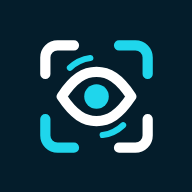
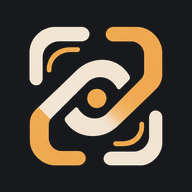
Add files via upload
v0.59

diff --git a/js/main.js b/js/main.js
@@ -23,7 +23,7 @@ import { summarizeCrew, rangeDisagreements, aboveOwnAfterFlight, compact } from 
 import { eyeAspect, EyeTracker } from './eyes.js';
 import { makeSpeaker } from './speech.js';
 import { parseBackup, mergePlan } from './backup.js';
-import { makeDemoSessions, makeDemoExp, DEMO_PROFILE, DEMO_NAME } from './demo.js';
+import { makeDemoSessions, makeDemoExp, SCENARIOS, DEMO_PROFILE, DEMO_NAME } from './demo.js';
 import { validatePacket, safeImage, standouts } from './review.js';
 import { analyzeMouth, compareMouth, changeMap, mouthMask } from './dentalcmp.js';
 import { REPLY_STATUSES, makeReply, validateReply, gzipText, readMaybeGzip } from './reply.js';
@@ -33,7 +33,7 @@ import { REEL, reelTotal, sceneAt, reelSrt, pickRecordingType } from './reel.js'
 import { earthMars, marsCycle, moonOneWaySec, fmtDelay } from './delay.js';
 import { initExp } from './expui.js';
 import { expForPacket, checkTitle, CHECKS as EXP_CHECKS } from './exp.js';
-import { METRIC_DEFS, seriesFor, referenceFor, buildRegions, lineChart, BODY_SVG } from './overview.js';
+import { METRIC_DEFS, seriesFor, referenceFor, buildRegions, lineChart, BODY_SVG, missionDay } from './overview.js';
 import { N as AMS_N, CARD_MM, DEFAULT_PX_PER_MM, summarize as amsSummary, compareEye, gridSize, cleanCells, visionForPacket } from './amsler.js';
 
 const $ = (id) => document.getElementById(id);
@@ -1376,7 +1376,9 @@ function applyTheme(dark) {
   $('btnTheme').setAttribute('aria-pressed', dark ? 'true' : 'false');
   $('btnTheme').textContent = dark ? 'Light' : 'Dark';
   document.querySelector('meta[name=theme-color]').setAttribute('content', dark ? '#101113' : '#041D2B');
-  // The logo is inline SVG coloured from the theme (css/app.css, .logo-mark), so nothing to swap here.
+  // Blue logo in light mode, amber logo in dark mode.
+  document.querySelector('.brand img').src = dark ? 'icons/logo-64.png' : 'icons/logo-blue-bar-64.png';
+  document.querySelector('.hero-logo').src = dark ? 'icons/logo-128.png' : 'icons/logo-blue-128.png';
 }
 const savedTheme = prefs.get('theme');
 applyTheme(savedTheme ? savedTheme === 'dark' : !!(darkQuery && darkQuery.matches));
@@ -1581,16 +1583,18 @@ setProfile(profiles().some((p) => p.id === prefs.get('profile')) ? prefs.get('pr
 renderProfileBar();
 
 /* ---------- sample data ---------- */
-$('btnDemo').addEventListener('click', async () => {
+// Fill the sample profile with one scenario. Rebuilt every time so the dates stay recent.
+async function loadDemo(scenario = prefs.get('demoScenario') || 'shortsleep') {
   if (!profiles().some((p) => p.id === DEMO_PROFILE)) prefs.set('profiles', [...profiles(), { id: DEMO_PROFILE, name: DEMO_NAME }]);
   setProfile(DEMO_PROFILE);
-  // Rebuild so the dates stay recent.
   await clearAll();
-  for (const x of [...makeDemoSessions(new Date()), ...makeDemoExp(new Date())]) await saveSession(x);
+  const now = new Date();
+  for (const x of [...makeDemoSessions(now, 42, scenario), ...makeDemoExp(now, scenario)]) await saveSession(x);
   prefs.set('profile', DEMO_PROFILE);
+  prefs.set('demoScenario', scenario);
   renderProfileBar();
-  show('board');
-});
+}
+$('btnDemo').addEventListener('click', async () => { await loadDemo(); show('board'); });
 
 /* ---------- trends ---------- */
 function trendHtml(sessions) {
@@ -2083,11 +2087,7 @@ async function reelLoadSample() {
   reel.prevProfile = getProfile();
   reel.prevMission = prefs.get('radMission');
   if (!profiles().some((p) => p.id === DEMO_PROFILE)) prefs.set('profiles', [...profiles(), { id: DEMO_PROFILE, name: DEMO_NAME }]);
-  setProfile(DEMO_PROFILE);
-  await clearAll();
-  for (const x of [...makeDemoSessions(new Date()), ...makeDemoExp(new Date())]) await saveSession(x);
-  prefs.set('profile', DEMO_PROFILE);
-  renderProfileBar();
+  await loadDemo('shortsleep');
 }
 // countdown: seconds of "start your recorder" before the first scene (0 when the app records by itself).
 async function reelStart({ countdown = 3, onBegin = null } = {}) {
@@ -2416,6 +2416,17 @@ async function renderOverview() {
     ovState.metric = null;
   }
   drawOvBody();
+  // Mission clock and scenario picker
+  const mc = prefs.get('missionClock');
+  const md = mc ? missionDay(mc.start, mc.length) : null;
+  $('ovMission').innerHTML = !md ? '<p class="fine">No mission clock set.</p>'
+    : md.phase === 'before' ? `<p>Mission starts in ${md.daysToGo} day${md.daysToGo === 1 ? '' : 's'} (${md.length} days long)</p>`
+      : md.phase === 'after' ? `<p>Mission ended ${md.daysSince} day${md.daysSince === 1 ? '' : 's'} ago (${md.length} days)</p>`
+        : `<p>Mission day ${md.day} of ${md.length}</p><div class="meter" role="img" aria-label="${Math.round(md.pct * 100)} percent of the mission done"><div style="transform:scaleX(${md.pct.toFixed(3)})"></div></div>`;
+  if (mc) { $('ovStart').value = mc.start; $('ovLen').value = mc.length; }
+  const cur = getProfile() === DEMO_PROFILE ? prefs.get('demoScenario') || 'shortsleep' : 'shortsleep';
+  $('ovScenario').innerHTML = SCENARIOS.map((x) => `<option value="${x.id}" ${x.id === cur ? 'selected' : ''}>${esc(x.label)}</option>`).join('');
+  $('ovScenario').title = (SCENARIOS.find((x) => x.id === cur) || SCENARIOS[0]).line;
   // Headline numbers
   const kpi = (k, v, unit, sub, warn) => `<div class="ov-kpi"><p class="k">${k}</p><p class="v">${v ?? '-'}${v != null && unit ? ` <small>${unit}</small>` : ''}</p><p class="s${warn ? ' warn' : ''}">${sub}</p></div>`;
   const ch = (val, base, floor) => (val == null ? null : changeVsBaseline(val, base, floor));
@@ -2482,7 +2493,8 @@ function drawOvChart() {
   }
   $('ovMetric').hidden = false;
   const withData = r.metrics.filter((m) => seriesFor(m, all).length);
-  if (!ovState.metric || !r.metrics.includes(ovState.metric)) ovState.metric = withData[0] || r.metrics[0];
+  const flaggedM = withData.find((m) => { const p = seriesFor(m, all), rf = referenceFor(m, p, { original, floors }); const v = p.at(-1).v; return rf && rf.band != null && (p.length > 1 || ['pulse', 'resp', 'gum'].includes(m)) && Math.abs(v - rf.base) > rf.band; });
+  if (!ovState.metric || !r.metrics.includes(ovState.metric)) ovState.metric = flaggedM || withData[0] || r.metrics[0];
   $('ovMetric').innerHTML = r.metrics.map((m) => `<option value="${m}" ${m === ovState.metric ? 'selected' : ''}>${esc(METRIC_DEFS[m].label)}${withData.includes(m) ? '' : ' (no data)'}</option>`).join('');
   const def = METRIC_DEFS[ovState.metric];
   const pts = seriesFor(ovState.metric, all);
@@ -2507,3 +2519,19 @@ $('screen-overview').addEventListener('click', (e) => {
   $('ovBody').querySelector(`[data-ov-region="${ovState.region}"]`)?.focus();
 });
 $('ovMetric').addEventListener('change', (e) => { ovState.metric = e.target.value; drawOvChart(); });
+
+$('btnOvScenario').addEventListener('click', async () => {
+  const id = $('ovScenario').value;
+  await loadDemo(id);
+  ovState.region = null; ovState.metric = null;
+  await renderOverview();
+  $('restoreMsg').textContent = `Sample scenario loaded: ${(SCENARIOS.find((x) => x.id === id) || {}).label}. ${(SCENARIOS.find((x) => x.id === id) || {}).line}`;
+});
+$('btnOvClock').addEventListener('click', () => {
+  const start = $('ovStart').value, length = Number($('ovLen').value);
+  if (!start || !missionDay(start, length)) { $('ovLen').focus(); return; }
+  prefs.set('missionClock', { start, length });
+  renderOverview();
+});
+$('btnOvClockClear').addEventListener('click', () => { prefs.set('missionClock', null); $('ovStart').value = ''; $('ovLen').value = ''; renderOverview(); });
+$('btnOvPrint').addEventListener('click', () => window.print());

diff --git a/js/demo.js b/js/demo.js
@@ -11,7 +11,15 @@ function rng(seed) {
   return () => { x = (x * 1664525 + 1013904223) >>> 0; return x / 2 ** 32; };
 }
 
-export function makeDemoSessions(now = new Date(), seed = 42) {
+// Scenarios for "Explore a scenario": the same two invented weeks, told four ways.
+export const SCENARIOS = [
+  { id: 'shortsleep', label: 'Three short nights', line: 'Pulse rises and reactions slow after a run of short sleep.' },
+  { id: 'steady', label: 'A steady fortnight', line: 'Everything stays inside its band. What a calm record looks like.' },
+  { id: 'gums', label: 'Gums getting redder', line: 'The front dental photo drifts redder over the last checkups, with gum pain ticked.' },
+  { id: 'breath', label: 'Short of breath today', line: 'Today\'s checkup has shortness of breath ticked and a faster breathing rate: the urgent path.' },
+];
+
+export function makeDemoSessions(now = new Date(), seed = 42, scenario = 'shortsleep') {
   const r = rng(seed);
   const day = 24 * 3600 * 1000;
   const out = [];
@@ -24,9 +32,10 @@ export function makeDemoSessions(now = new Date(), seed = 42) {
   // 12 checkups over 14 days; pulse rises on days 3 to 1 ago (a short sleep stretch in the story).
   const plan = [14, 13, 12, 11, 9, 8, 7, 6, 5, 3, 2, 1];
   plan.forEach((ago, i) => {
-    const elevated = ago <= 3;
-    const pulse = Math.round(63 + (r() - 0.5) * 5 + (elevated ? 9 : 0));
-    const resp = Math.round(14 + (r() - 0.5) * 3);
+    const elevated = scenario === 'shortsleep' && ago <= 3;
+    const breathless = scenario === 'breath' && ago === 1;
+    const pulse = Math.round(63 + (r() - 0.5) * 5 + (elevated ? 9 : 0) + (breathless ? 11 : 0));
+    const resp = Math.round(14 + (r() - 0.5) * 3 + (breathless ? 7 : 0));
     const quality = r() < 0.15 ? 'medium' : 'high';
     const s = {
       id: id(i), demo: true, profileId: DEMO_PROFILE, createdAt: at(ago, Math.round((r() - 0.5) * 70)).toISOString(),
@@ -35,16 +44,26 @@ export function makeDemoSessions(now = new Date(), seed = 42) {
       pulse: { bpm: pulse, quality, accepted: 11, total: 11, reason: '' },
       resp: { rpm: resp, quality: 'high', seconds: 30, channel: i % 3 ? 'chest' : 'neck', reason: '' },
       usableSeconds: 30, elapsedSeconds: 38 + Math.round(r() * 20), dental: {},
-      context: { symptoms: elevated && ago === 2 ? 'Slept badly two nights, mild headache.' : '',
-        checklist: ago === 3 ? ['sleep'] : ago === 2 ? ['headache', 'sleep'] : ago === 1 ? ['headache', 'sleep', 'mouth'] : ago === 9 ? ['back'] : [] },
+      context: { symptoms: elevated && ago === 2 ? 'Slept badly two nights, mild headache.' : breathless ? 'Out of breath after the stairs this morning. (Invented sample.)' : '',
+        checklist: scenario === 'shortsleep' ? (ago === 3 ? ['sleep'] : ago === 2 ? ['headache', 'sleep'] : ago === 1 ? ['headache', 'sleep', 'mouth'] : ago === 9 ? ['back'] : [])
+          : scenario === 'gums' ? (ago <= 2 ? ['mouth'] : [])
+            : scenario === 'breath' ? (ago === 1 ? ['breath', 'tired'] : [])
+              : (ago === 9 ? ['back'] : []) },
     };
+    // Gum story: the front photo's automatic colour comparison drifts redder (a* units against baseline).
+    if (scenario === 'gums') {
+      const drift = { 6: 1.5, 5: 3, 3: 7.5, 2: 9, 1: 12 }[ago] ?? (ago === 14 ? null : Math.round((r() - 0.5) * 30) / 10);
+      if (drift != null) s.dental = { front: { view: 'front', captured: true, marks: [], auto: { comparable: true, gumRedDelta: drift, toothYellowDelta: 0.4, lightingDelta: 1.1,
+        flags: drift > 6 ? [`Gums look redder than the baseline photo (a* +${drift}).`] : [], notes: [], changedPct: drift > 6 ? 9 : 2 } } };
+      else s.dental = { front: { view: 'front', captured: true, marks: [] } };
+    }
     // Six checkups have a reference watch reading, so the bench test panel is filled in.
     if (i % 2 === 0) s.reference = { pulseBpm: pulse + Math.round((r() - 0.5) * 4), breathsPerMin: resp + Math.round((r() - 0.5) * 2), device: 'sample watch', conditions: 'sample data' };
     out.push(s);
   });
   // Five reaction tests; slower on the short sleep days.
   [13, 9, 6, 2, 1].forEach((ago, k) => {
-    const slow = ago <= 2;
+    const slow = scenario === 'shortsleep' && ago <= 2;
     const median = Math.round(262 + (r() - 0.5) * 16 + (slow ? 34 : 0));
     const rts = Array.from({ length: 52 }, () => Math.round(median + (r() - 0.35) * 90 + (r() < (slow ? 0.12 : 0.03) ? 200 : 0)));
     const lapses = rts.filter((x) => x >= 355).length;
@@ -58,19 +77,20 @@ export function makeDemoSessions(now = new Date(), seed = 42) {
 
 // Invented experimental check results for the demo profile (no photos). The later jaw and timing
 // results sit outside their bands on purpose, so the "differs from your first check" view can be seen.
-export function makeDemoExp(now = new Date()) {
+export function makeDemoExp(now = new Date(), scenario = 'shortsleep') {
+  const calm = scenario !== 'shortsleep';
   const day = 24 * 3600 * 1000;
   const at = (daysAgo, h) => { const d = new Date(+now - daysAgo * day); d.setHours(h, 15, 0, 0); return d.toISOString(); };
   const rec = (i, daysAgo, exp) => ({ id: `demo-exp-${String(i).padStart(2, '0')}`, createdAt: at(daysAgo, 9), kind: 'exp', source: 'device', demo: true, complete: false, exp: { ok: true, method: 'Invented sample result.', ...exp } });
   return [
     rec(1, 13, { check: 'jaw', maxOpenMm: 44.5, deviationMm: 0.8, openings: 3 }),
-    rec(2, 1, { check: 'jaw', maxOpenMm: 37.0, deviationMm: 1.4, openings: 3 }),
+    rec(2, 1, { check: 'jaw', maxOpenMm: calm ? 43.6 : 37.0, deviationMm: calm ? 0.9 : 1.4, openings: 3 }),
     rec(3, 12, { check: 'gaze', followCorr: 0.91, lagMs: 160, eyeTravel: 0.11, smoothnessPct: 78, jumpsPer10s: 1.5, holdJitterPct: 6.2 }),
     rec(4, 2, { check: 'gaze', followCorr: 0.88, lagMs: 190, eyeTravel: 0.1, smoothnessPct: 74, jumpsPer10s: 2.5, holdJitterPct: 7.9 }),
     rec(5, 11, { check: 'pupil', right: { constrictionPct: 31.5, latencyMs: 330, restRatio: 0.41 }, left: { constrictionPct: 29.8, latencyMs: 360, restRatio: 0.4 }, asymmetryPct: 2.5, irisPx: 38 }),
     rec(6, 10, { check: 'pallor', eye: 'right', eyelidEi: 21.4, whiteEi: 6.1, relEi: 15.3 }),
     rec(7, 9, { check: 'tremor', mode: 'motion', unit: 'm/s²', right: { peakHz: null, share: 0.12, rms: 0.021 }, left: { peakHz: null, share: 0.1, rms: 0.019 } }),
     rec(8, 12, { check: 'circ', pttMs: 64, pttSpreadMs: 18, bpm: 62, rorFace: 0.912, rorPalm: 0.88, windows: '9 of 11', cameraFps: 30 }),
-    rec(9, 1, { check: 'circ', pttMs: 31, pttSpreadMs: 22, bpm: 72, rorFace: 0.934, rorPalm: 0.9, windows: '7 of 11', cameraFps: 30 }),
+    rec(9, 1, { check: 'circ', pttMs: calm ? 58 : 31, pttSpreadMs: 22, bpm: scenario === 'breath' ? 75 : calm ? 63 : 72, rorFace: 0.934, rorPalm: 0.9, windows: '7 of 11', cameraFps: 30 }),
   ];
 }

diff --git a/index.html b/index.html
@@ -7,7 +7,6 @@
 <meta name="description" content="A camera coaches you into the same position as last time, measures only when the capture is good, and shows a remote practitioner what changed. Research prototype, not a diagnostic device.">
 <meta name="theme-color" content="#041D2B">
 <link rel="manifest" href="manifest.webmanifest">
-<link rel="icon" href="icons/logo-mark.svg" type="image/svg+xml">
 <link rel="icon" href="icons/icon-192.png" type="image/png">
 <link rel="apple-touch-icon" href="icons/icon-192.png">
 <link rel="preload" href="fonts/atkinson-hyperlegible-latin-700-normal.woff2" as="font" type="font/woff2" crossorigin>
@@ -19,7 +18,7 @@
 <header class="site-head">
 <div class="topbar">
   <a class="brand" href="#home" data-nav="home">
-    <svg class="logo-mark" viewBox="0 0 64 64" width="32" height="32" aria-hidden="true" focusable="false"><g fill="none" stroke-linecap="round" stroke-linejoin="round" stroke-width="5"><path class="lm-a" d="M7 21 V13 A6 6 0 0 1 13 7 H21"/><path class="lm-b" d="M43 7 H51 A6 6 0 0 1 57 13 V21"/><path class="lm-a" d="M57 43 V51 A6 6 0 0 1 51 57 H43"/><path class="lm-b" d="M21 57 H13 A6 6 0 0 1 7 51 V43"/><path class="lm-a" d="M15 32 C21 23 26 20 32 20 C38 20 43 23 49 32 C43 41 38 44 32 44 C26 44 21 41 15 32 Z"/><path class="lm-b" stroke-width="3" d="M19 18 A18 18 0 0 1 29 13.2"/><path class="lm-b" stroke-width="3" d="M45 46 A18 18 0 0 1 35 50.8"/></g><circle class="lm-dot" cx="32" cy="32" r="6"/></svg>
+    <img src="icons/logo-blue-bar-64.png" alt="" width="30" height="30">
     <span>RelaisÉcho Link</span>
   </a>
   <div class="topbar-right">
@@ -60,7 +59,7 @@
   <!-- HOME -->
   <section id="screen-home" class="screen" aria-labelledby="h-home">
     <div class="hero">
-      <svg class="hero-logo logo-mark" viewBox="0 0 64 64" width="88" height="88" role="img" aria-label="RelaisÉcho Link logo"><g fill="none" stroke-linecap="round" stroke-linejoin="round" stroke-width="5"><path class="lm-a" d="M7 21 V13 A6 6 0 0 1 13 7 H21"/><path class="lm-b" d="M43 7 H51 A6 6 0 0 1 57 13 V21"/><path class="lm-a" d="M57 43 V51 A6 6 0 0 1 51 57 H43"/><path class="lm-b" d="M21 57 H13 A6 6 0 0 1 7 51 V43"/><path class="lm-a" d="M15 32 C21 23 26 20 32 20 C38 20 43 23 49 32 C43 41 38 44 32 44 C26 44 21 41 15 32 Z"/><path class="lm-b" stroke-width="3" d="M19 18 A18 18 0 0 1 29 13.2"/><path class="lm-b" stroke-width="3" d="M45 46 A18 18 0 0 1 35 50.8"/></g><circle class="lm-dot" cx="32" cy="32" r="6"/></svg>
+      <img class="hero-logo" src="icons/logo-blue-128.png" alt="RelaisÉcho Link logo" width="88" height="88">
       <p data-i18n="home.eyebrow" class="eyebrow">Guided camera checkup · orbit to the North</p>
       <h1 data-i18n="home.h1" id="h-home">Your last checkup, lined up with today.</h1>
       <p data-i18n="home.lede" class="lede">A phone or laptop camera coaches you into the same position as your baseline, measures only when the signal is good, and prepares a short packet a remote practitioner can review.</p>
@@ -101,7 +100,17 @@
   <section id="screen-overview" class="screen ov" hidden aria-labelledby="h-ov">
     <div class="ov-top">
       <div><p class="step">Overview</p><h1 id="h-ov" class="ov-h1">Everything at a glance</h1></div>
-      <p class="fine ov-note">Each part is compared with your own first value. No combined score. Details on the <button type="button" class="link-btn" data-nav="board">Board</button>.</p>
+      <p class="fine ov-note">Each part is compared with your own first value. No combined score. Details on the <button type="button" class="link-btn" data-nav="board">Board</button>. <button type="button" class="link-btn" id="btnOvPrint">Print</button></p>
+    </div>
+    <div class="ov-bar">
+      <div class="ov-mission" id="ovMission"></div>
+      <details class="ov-clock fine"><summary>Set the mission clock</summary>
+        <div class="row"><label for="ovStart">Start date</label><input type="date" id="ovStart"><label for="ovLen">Length (days)</label><input type="number" id="ovLen" min="1" max="2000" inputmode="numeric" placeholder="180">
+        <button type="button" class="btn" id="btnOvClock">Save</button><button type="button" class="link-btn" id="btnOvClockClear">Clear</button></div>
+        <p class="fine">For a field rotation, a winter posting or a mission. Shown here only; it changes no result.</p>
+      </details>
+      <div class="ov-scen"><label for="ovScenario">Explore a scenario (sample data)</label>
+        <select id="ovScenario" class="ov-select"></select><button type="button" class="btn" id="btnOvScenario">Load</button></div>
     </div>
     <div class="ov-grid">
       <div class="card ov-bodycard">
@@ -647,7 +656,7 @@
   <span>Open source under Apache 2.0. Not affiliated with or endorsed by NASA or the Canadian Space Agency.</span>
   <span id="modelNote"></span>
   <span><button type="button" class="link-btn" data-nav="privacy">Your data</button> · <button type="button" class="link-btn" data-nav="device">Check this device</button> · <button type="button" class="link-btn" data-nav="exp">Experimental checks</button></span>
-  <span>RelaisÉcho Link <span id="appVersion">v0.58</span></span>
+  <span>RelaisÉcho Link <span id="appVersion">v0.59</span></span>
 </footer>
 </body>
 </html>

diff --git a/css/app.css b/css/app.css
@@ -425,10 +425,12 @@ main:has(> #screen-overview:not([hidden])) { max-width: 1380px; padding-top: 14p
 .ov-jump { min-height: 0; padding: 0; font-weight: 700; }
 .ov-next li { margin: 3px 0; }
 
-/* Logo mark: flat, two colours, drawn as SVG so it stays sharp at every size and follows the theme. */
-:root { --logo-a: var(--navy); --logo-b: #00A9C7; }
-[data-theme=dark] { --logo-b: var(--accent); }
-.logo-mark .lm-a { stroke: var(--logo-a); }
-.logo-mark .lm-b { stroke: var(--logo-b); }
-.logo-mark .lm-dot { fill: var(--logo-b); }
-.brand .logo-mark { --logo-a: var(--bar-ink); --logo-b: var(--accent); flex: none; }
+.ov-bar { display: flex; flex-wrap: wrap; align-items: center; gap: 8px 18px; margin: 0 0 12px; }
+.ov-mission { flex: 1 1 260px; min-width: 220px; }
+.ov-mission p { margin: 0; font-weight: 700; }
+.ov-mission .meter { height: 10px; margin-top: 4px; }
+.ov-scen { display: flex; flex-wrap: wrap; align-items: center; gap: 6px 8px; }
+.ov-scen label, .ov-clock label { font-size: 15px; }
+.ov-clock input { font: inherit; font-size: 16px; min-height: 40px; padding: 2px 6px; border: 2px solid var(--navy); border-radius: var(--radius); background: var(--panel); color: var(--ink); width: auto; }
+.ov-clock .row { align-items: center; gap: 6px 8px; flex-wrap: wrap; }
+@media print { .ov-bar .ov-scen, .ov-clock, #btnOvPrint, .ov-select { display: none !important; } .ov-grid { grid-template-columns: 300px 1fr; } .ov-rightgrid { grid-template-columns: 1fr; } .ov-body { height: 420px; } }

diff --git a/js/overview.js b/js/overview.js
@@ -120,3 +120,16 @@ export const BODY_SVG = `<svg viewBox="0 0 300 460" class="ov-body-fig" aria-hid
   <path class="ov-skin" d="M136 104 C120 108 100 110 92 124 C84 138 80 170 76 210 L70 268 C68 286 66 300 66 312 C66 326 82 326 82 314 L86 270 L94 214 L100 176 L104 240 L106 300 L112 380 L116 440 C116 454 140 454 140 442 L146 356 L150 318 L154 356 L160 442 C160 454 184 454 184 440 L188 380 L194 300 L196 240 L200 176 L206 214 L214 270 L218 314 C218 326 234 326 234 312 C234 300 232 286 230 268 L224 210 C220 170 216 138 208 124 C200 110 180 108 164 104 Z"/>
   <ellipse cx="150" cy="54" rx="29" ry="35" class="ov-skin"/>
 </svg>`;
+
+// Mission clock: day N of M from a start date (local calendar days, day 1 = start date).
+export function missionDay(startIso, lengthDays, now = new Date()) {
+  const len = Math.round(Number(lengthDays));
+  if (!startIso || !(len >= 1 && len <= 2000)) return null;
+  const s = new Date(`${startIso}T00:00:00`);
+  if (Number.isNaN(+s)) return null;
+  const today = new Date(now.getFullYear(), now.getMonth(), now.getDate());
+  const day = Math.round((today - s) / 86400000) + 1;
+  if (day < 1) return { phase: 'before', day, length: len, daysToGo: 1 - day, pct: 0 };
+  if (day > len) return { phase: 'after', day, length: len, daysSince: day - len, pct: 1 };
+  return { phase: 'during', day, length: len, pct: day / len };
+}

diff --git a/sw.js b/sw.js
@@ -1,5 +1,5 @@
 // Offline cache for the app shell, the MediaPipe runtime and (if bundled) the face model.
-const CACHE = 'relaisecho-0.58.0-b4e1a94159';
+const CACHE = 'relaisecho-0.59.0-424348cde8';
 const SHELL = [
   './',
   'index.html',
@@ -12,8 +12,10 @@ const SHELL = [
   'fonts/noto-sans-canadian-aboriginal-canadian-aboriginal-700-normal.woff2',
   'icons/icon-192.png',
   'icons/icon-512.png',
+  'icons/logo-128.png',
+  'icons/logo-64.png',
   'icons/logo-blue-128.png',
-  'icons/logo-mark.svg',
+  'icons/logo-blue-bar-64.png',
   'js/align.js',
   'js/amsler.js',
   'js/backup.js',

diff --git a/README.md b/README.md
@@ -29,7 +29,7 @@ Or let it play by itself: Home page > **30 second captioned demo** (also `/?reel
 | Dental photos | Front and both sides, levelled and scaled by the mouth corners, baseline against today slider, reviewer marks, colour comparison with a lighting check | EXPERIMENTAL |
 | Change against baseline | A difference counts only when it beats the method's noise band (published figures, or your own bench error after 5 reference pairs) | MODELED |
 | Alertness | 3 minute reaction test with the published PVT-B settings, compared with your own first test | EXPERIMENTAL |
-| Overview | One screen: a body chart whose regions open trend graphs against your own first value, four headline numbers, a short "look here first" list and the next step. A reading order, not a score | LIVE |
+| Overview | One screen: a body chart whose regions open trend graphs against your own first value, four headline numbers, a short "look here first" list and the next step; four sample scenarios to explore, a mission clock (day N of M) and one page printing. A reading order, not a score | LIVE |
 | Mission board | Today checklist, checkup rhythm, sleep pressure (two process model), daylight by latitude next to the station's 16 sunrises a day, radiation budget for ISS and Mars missions (NASA-STD-3001, Curiosity RAD), live space weather (NASA DONKI), signal delay to Mars today (JPL orbital elements), Inspiration4 crew blood data (NASA OSDR OSD-575), brain clearance explainer | LIVE, MODELED, PUBLISHED or NASA DATA per tile |
 | Eye grid | Amsler grid self check, one eye at a time, compared with your own first check; counts travel in the packet | EXPERIMENTAL |
 | Experimental checks | Seven short camera checks, each compared only with your own first result: jaw opening (mm, iris scaled), eye following a moving dot (match and delay), pupil light response (screen flash), inner eyelid colour (redness against the white of the eye, confirmed before saving), neck photos before and during a swallow, hand steadiness (phone motion sensor or camera, 3 to 12 Hz), and a pulse timing index plus a colour ratio index (face against an open palm). The last two are indexes, never mmHg or a saturation percentage | EXPERIMENTAL |
@@ -56,7 +56,7 @@ Full list with links: `DATA_SOURCES.md`. Software and font licences: `LICENSES.m
 
 ## What is tested, and what is not
 
-- `npm test`: 102 unit tests on the signal processing, models, data handling and repository checks. No dependencies.
+- `npm test`: 104 unit tests on the signal processing, models, data handling and repository checks. No dependencies.
 - A synthetic video with a known 72 bpm colour pulse and 15 breaths per minute runs through the whole browser pipeline (`tests/e2e_synthetic.mjs`) and returns 72 and 15. This shows the code path works.
 - An automated accessibility audit (axe-core) of eight screens (home, board, history, crew data, reaction test, nurse view, checkup setup, device check) in light and dark mode found no violations at v0.50.
 - **Not shown: accuracy on real people.** Camera pulse error is known to rise on darker skin (a published meta analysis reports about 4 beats per minute for Fitzpatrick types I to V and about 14 for type VI), cold skin is untested, and every threshold in `js/config.js` is a design choice. That is why every estimate is labelled EXPERIMENTAL and the app refuses to give a number when a capture fails its checks.

diff --git a/CHANGELOG.md b/CHANGELOG.md
@@ -2,6 +2,14 @@
 
 Newest first. Every version was built during NASA Space Apps 2026 (14 and 15 Nov 2026).
 
+## Changes in v0.59 (15 Nov 2026)
+
+- **Original logo kept.** The flat redraw from v0.58 is removed; the app uses the team's ChatGPT logo again.
+- **Explore a scenario** on the Overview, all invented sample data in the sample profile: Three short nights (pulse up, reactions slower), A steady fortnight (everything inside its band), Gums getting redder (front dental colour drifts redder, gum pain ticked), Short of breath today (the urgent path). Each one changes the body chart, graphs and "Look here first".
+- **Mission clock** on the Overview: set a start date and length to see "Mission day N of M" with a progress bar (a field rotation or winter posting works the same way). Display only.
+- **Print** the Overview on one page.
+- 104 unit tests.
+
 ## Changes in v0.58 (15 Nov 2026)
 
 - **Overview tab: everything on one screen.** A body chart with seven regions (sleep and alertness, eyes, mouth and jaw, neck, heart and circulation, breathing, hands). Each region's dot shows urgent tick, look again, logged or not measured, with a dashed line to its label. Selecting a region plots its measures over time with the person's own first value (or the original baseline) and its band; "Show values" gives the same numbers as a table. Four headline numbers (pulse, breathing, reaction time, last night's sleep), a short "Look here first" list and the next step sit beside it. The Board stays the detailed view. A reading order, not a score.
@@ -9,7 +17,7 @@ Newest first. Every version was built during NASA Space Apps 2026 (14 and 15 Nov
 - **Text size: Aa−, Aa, Aa+.** Five steps from 85% to 150%, applied like browser zoom so layouts reflow instead of overlapping; the camera layers stay full size. Replaces the single A+ toggle (an old "larger text" setting maps to 130%).
 - **Dental photos at the baseline's distance.** Each dental photo records how large the iris appears (vertical size, so turning the head does not change it). Later dental photos on the same camera must be within 12% of the original baseline's distance before they count, with "Move closer" or "Move back a little" coaching (English and French). A different camera is named as not comparable. The first dental set shows a rough distance in cm.
 - **Sharper camera overlays.** The guide outline and measurement boxes are now drawn at the screen's real pixel density, with rounded corners, a light fill and small labels (forehead, cheek, neck, chest; eyelid, neck, palm, hand in the experimental checks) that read correctly in selfie view.
-- **Logo redrawn as a flat vector** (`icons/logo-mark.svg`): corner brackets, an eye and two echo arcs in two colours, no gradients or fake shading. It is inlined in the page so it follows the light and dark themes; app icons are rendered from it. AI disclosure updated.
+- The team kept its original logo (made with ChatGPT); AI disclosure updated to say so.
 - 102 unit tests; browser regression extended; no accessibility violations on 11 screens in light and dark.
 
 ## Changes in v0.57 (15 Nov 2026)

diff --git a/AI_DISCLOSURE.md b/AI_DISCLOSURE.md
@@ -11,5 +11,5 @@ Edit this file so it describes what the team actually did.
   - The README and the licence and data source notes
   - The planning document, the UI mockups and the 30 second video storyboard
 - **What the team did:** [describe the team's review, testing on real devices, bench test, threshold changes, design decisions and edits]
-- **AI images or video:** the first logo concept was generated with ChatGPT (OpenAI) at the team's request. In v0.58 Claude redrew it as a flat vector (`icons/logo-mark.svg`: corner brackets, an eye, two echo arcs) and rendered the app icons from it, so the logo in the app is AI made in both steps. [Check the current Space Apps rule on AI generated images, including any watermark requirement, and state here how the team handled it.] Any AI generated image or footage in the submission video must follow the same rule.
+- **AI images or video:** the logo was generated with ChatGPT (OpenAI) at the team's request; the app icons were cut from that image. [Check the current Space Apps rule on AI generated images, including any watermark requirement, and state here how the team handled it.] Any AI generated image or footage in the submission video must follow the same rule.
 - **AI inside the app:** none. No language model or generative model runs in the app. The face landmark model is MediaPipe's (see `LICENSES.md`).

diff --git a/LICENSES.md b/LICENSES.md
@@ -16,7 +16,7 @@ Original code and content: Apache License 2.0 (see `LICENSE`).
 
 No other third party code is included. Bundled data: NASA OSDR OSD-575 values, see `DATA_SOURCES.md`. POS pulse extraction, filters, FFT, breathing tracking and dental sharpness checks are written for this project.
 
-Logo: the team's concept (an image made with ChatGPT) was redrawn by Claude as a flat two colour vector, `icons/logo-mark.svg`, also inlined in `index.html`; `icons/icon-*.png` and `icons/logo-blue-128.png` are rendered from it. Both steps used AI tools; see AI_DISCLOSURE.md. Fonts: Atkinson Hyperlegible and Noto Sans Canadian Aboriginal are bundled (see table). Colours (ivory, charcoal, amber) come from the team logo.
+Logo: supplied by the team, made with ChatGPT (icons/logo-*.png, icons/icon-*.png were cut from the team's logo file). See AI_DISCLOSURE.md. Fonts: Atkinson Hyperlegible and Noto Sans Canadian Aboriginal are bundled (see table). Colours (ivory, charcoal, amber) come from the team logo.
 
 ## Deliberately not used
 
